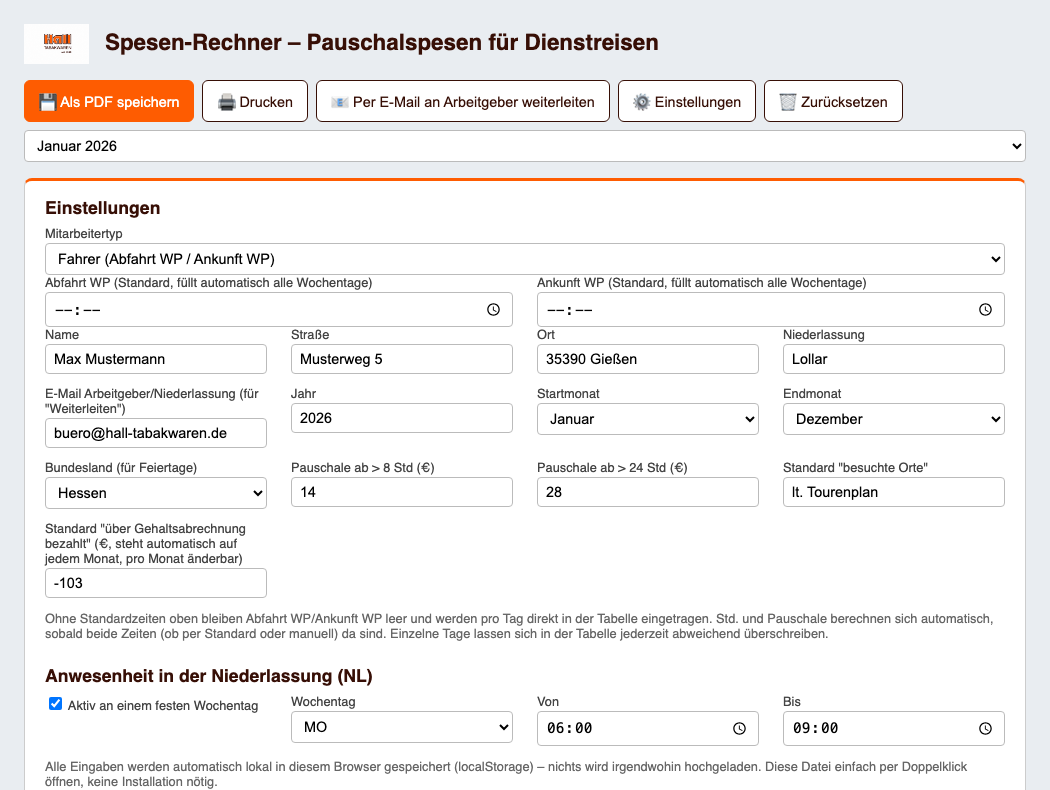
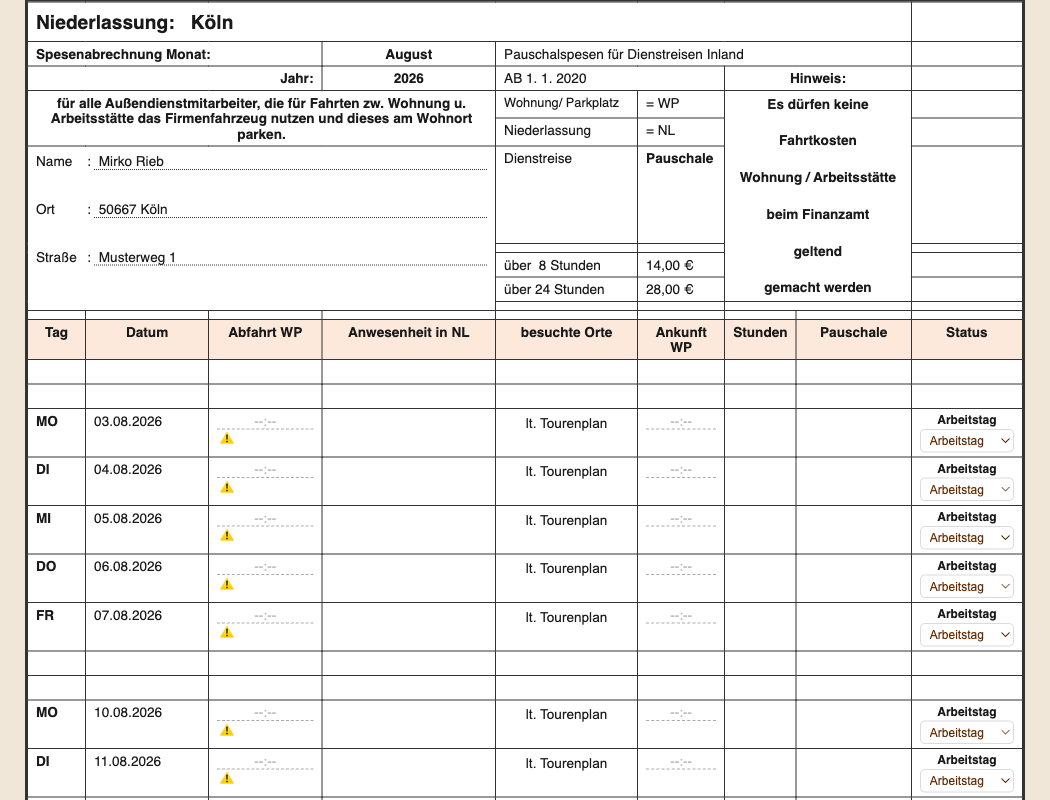
Anleitung.html auf den Werkzeugleiste-&-Hauptkategorien-Umbau aktualisiert
Abschnitt 1 wird zu "Loslegen: Kachel-Startseite & Werkzeugleiste" (7 Kacheln
erklärt, Zeit nur für Mirko sichtbar, Werkzeugleiste je Tab unterschiedlich,
mobiler "⋯ Mehr"-Overflow explizit von der neuen Hauptkategorie "☰ Mehr"
abgegrenzt). Abschnitt 2 wird zu "Stammdaten (einmalig ausfüllen)" ohne
Umschalt-Knopf, Tage-Tabelle direkt darunter. Alle weiteren Abschnitte auf
die neue Navigation umgestellt (Einstellungen-Verweise entfernt, Arbeitszeit/
Urlaubskalender/Abgeschlossene Monate auf Tabs bzw. den "☰ Mehr"-Bereich
umgehängt). Fünf Screenshots ersetzt/ergänzt: kachel-startseite.png,
toolbar.png, einstellungen.png, mehr-panel.png, zeit-tab.png. Alle
Panel-Ausschnitte ohne Werkzeugleisten-Chrome unverändert gelassen.

Vor dem Schreiben live per Playwright gegen den lokalen Server geprüft
(Mobile-Overflow vs. Mehr-Hauptkategorie, Als-App-einrichten-Modal,
Zeit-Sichtbarkeit), nicht geraten. Im Tool selbst (Anleitung-Tab) Korrektur
gelesen, alle 18 Bilder laden nachweislich (naturalWidth > 0).

Video (Anleitung-Video.mp4) bewusst nicht angefasst.

diff --git a/Anleitung.html b/Anleitung.html
@@ -80,9 +80,9 @@
 Alles läuft im Browser, nichts muss installiert werden.</p>
 <div class="hinweis">
   <b>Beim allerersten Öffnen</b> erscheint automatisch ein kurzer 4-Schritte-Einrichtungsassistent
-  (Name, Straße/Ort/Niederlassung, Fahrer/Monteur, Bundesland) - alles darin lässt sich später in den
-  Einstellungen jederzeit ändern. Nach dem letzten Schritt öffnen sich automatisch die Einstellungen,
-  um das Dokument gleich fertigzustellen (z.B. E-Mail-Adresse des Arbeitgebers, Pauschalen, Standard-Zeiten).
+  (Name, Straße/Ort/Niederlassung, Fahrer/Monteur, Bundesland) - alles darin lässt sich später jederzeit
+  ändern (siehe Schritt 2). Nach dem letzten Schritt geht es zurück zur <b>Kachel-Startseite</b> (siehe
+  Schritt 1) - von dort aus wird dann der gewünschte Bereich angetippt.
 </div>
 
 <div class="video-box">
@@ -95,49 +95,63 @@ Alles läuft im Browser, nichts muss installiert werden.</p>
   Erkl&auml;rung. Wer lieber liest, findet darunter jeden Schritt einzeln mit Bild.</p>
 </div>
 
-<h2>1. Werkzeugleiste</h2>
+<h2>1. Loslegen: Kachel-Startseite &amp; Werkzeugleiste</h2>
 <div class="step">
-  <p>Oben im Tool gibt es die Werkzeugleiste mit Monats- und Sprachauswahl:</p>
-  <img src="anleitung-bilder/toolbar.png" alt="Werkzeugleiste mit Buttons">
+  <p>Nach dem Öffnen (bzw. nach dem Einrichtungsassistenten) landet man immer zuerst auf der
+     <b>Kachel-Startseite</b> mit den Hauptbereichen zur Auswahl:</p>
+  <img src="anleitung-bilder/kachel-startseite.png" alt="Kachel-Startseite mit allen Hauptbereichen">
   <ul>
+    <li><b>📋 Spesen</b> – der eigentliche Spesennachweis: Stammdaten und die Tage-Tabelle (siehe Schritt 2 und 3)</li>
+    <li><b>⏱ Zeit</b> – eigene Stechuhr mit Überstunden-Konto (siehe „Extra: Arbeitszeit erfassen"). <b>Nur sichtbar,
+        wenn als Name exakt „Mirko Rieb" hinterlegt ist</b> – bei jedem anderen Namen erscheint diese Kachel nicht.</li>
+    <li><b>🌴 Urlaub</b> – Jahreskalender mit Urlaubsanspruch und Resttagen (siehe „Extra: Urlaubskalender")</li>
+    <li><b>📊 Jahresübersicht</b> – Monats- und Jahressummen auf einen Blick, inkl. Balkendiagramm (siehe Schritt 8)</li>
+    <li><b>📱 Als App einrichten</b> – Anleitung zum Einrichten als App auf dem Handy (siehe „Extra: Auf dem Handy –
+        als App einrichten"). <b>Erscheint nur im Browser</b>, nicht mehr in der bereits installierten App –
+        dort ist ja nichts mehr einzurichten.</li>
+    <li><b>☰ Mehr</b> – bündelt die selteneren Werkzeuge: Feedback, QR-Code, Monat abschließen, Abgeschlossene
+        Monate, Sprachauswahl und Zurücksetzen (siehe Schritt 9 und 11)</li>
+    <li><b>❓ Anleitung</b> – diese Seite hier, direkt im Tool eingebettet</li>
+  </ul>
+  <p>Von jeder dieser Ansichten führt oben <b>„← Zurück zur Auswahl"</b> wieder zurück zur Kachel-Startseite.</p>
+
+  <p><b>Die Werkzeugleiste ändert sich je nach Tab</b> – oben auf <b>📋 Spesen</b> sieht sie zum Beispiel so aus:</p>
+  <img src="anleitung-bilder/toolbar.png" alt="Werkzeugleiste im Spesen-Tab">
+  <ul>
+    <li><b>⏰ Zeiten für alle Tage</b> – setzt Abfahrt WP und Ankunft WP in einem Rutsch für <b>jeden Werktag</b>
+        des Monats, statt jeden Tag einzeln auszufüllen. Vor dem Übernehmen wird angezeigt, wie viele Stunden
+        und welche Pauschale sich daraus je Tag ergeben. <b>Von Hand eingetragene Tage bleiben unangetastet</b> –
+        wer einzelne Tage schon korrigiert hat, verliert diese Korrekturen nicht (siehe Schritt 3)</li>
     <li><b>💾 Als PDF speichern</b> – lädt den fertigen Spesennachweis als PDF-Datei herunter</li>
     <li><b>👁 PDF ansehen</b> – zeigt das PDF erst in einer Vorschau zum Anschauen (lädt nichts herunter); im Vorschau-Fenster kann man es bei Bedarf trotzdem <b>speichern</b> oder direkt <b>drucken</b></li>
     <li><b>🖨 Drucken</b> – öffnet dieselbe PDF-Vorschau; dort auf <b>🖨 Drucken</b> klicken, dann öffnet sich der Druckdialog. So wird immer genau die fertige 1-Seiten-Fassung gedruckt (nichts wird abgeschnitten)</li>
     <li><b>📧 Per E-Mail an Arbeitgeber weiterleiten</b> – speichert die PDF, öffnet eine vorausgefüllte E-Mail
         und markiert den Monat automatisch als eingereicht (siehe Schritt 10)</li>
-    <li><b>🔒 Monat abschließen</b> – markiert den Monat manuell als eingereicht/gesperrt und <b>speichert dabei
-        automatisch die fertige PDF als Datei ab</b> (für die eigene Steuer-/Jahresablage) - auch ohne E-Mail-Versand
-        (z.B. wer stattdessen ausdruckt und persönlich abgibt) - siehe Schritt 10</li>
-    <li><b>⏰ Zeiten für alle Tage</b> – setzt Abfahrt WP und Ankunft WP in einem Rutsch für <b>jeden Werktag</b>
-        des Monats, statt jeden Tag einzeln auszufüllen. Vor dem Übernehmen wird angezeigt, wie viele Stunden
-        und welche Pauschale sich daraus je Tag ergeben. <b>Von Hand eingetragene Tage bleiben unangetastet</b> –
-        wer einzelne Tage schon korrigiert hat, verliert diese Korrekturen nicht (siehe Schritt 3)</li>
-    <li><b>⚙ Einstellungen</b> – Stammdaten, Mitarbeitertyp, Standardzeiten, Anwesenheit NL, Abwesenheiten, Datensicherung (siehe Schritt 2, 5, 6 und 9)</li>
-    <li><b>📊 Jahresübersicht</b> – Monats- und Jahressummen auf einen Blick, inkl. Balkendiagramm (siehe Schritt 8)</li>
-    <li><b>⏱ Arbeitszeit</b> – eigene Stechuhr mit Überstunden-Konto, völlig getrennt von der Abrechnung
-        (siehe „Extra: Arbeitszeit erfassen")</li>
-    <li><b>🌴 Urlaubskalender</b> – Jahreskalender mit Urlaubsanspruch und Resttagen
-        (siehe „Extra: Urlaubskalender")</li>
-    <li><b>📁 Abgeschlossene Monate</b> – Übersicht aller eingereichten Monate über alle Jahre hinweg, inkl. Backup-Funktion (siehe Schritt 11)</li>
-    <li><b>📱 QR-Code</b> – zeigt einen QR-Code zur Tool-Adresse an, z.B. praktisch zum Aushängen am Schwarzen Brett</li>
-    <li><b>🗑 Zurücksetzen</b> – löscht alle Eingaben (Vorsicht, nicht rückgängig zu machen – vorher ggf. Backup speichern, Schritt 9)</li>
-    <li><b>❓ Anleitung</b> – diese Seite hier</li>
-    <li><b>💬 Feedback</b> – öffnet eine vorausgefüllte E-Mail für Verbesserungsvorschläge</li>
-    <li><b>Monats-Dropdown</b> – wechselt zwischen den Monaten des eingestellten Zeitraums</li>
-    <li><b>🇩🇪/🇬🇧 Sprachauswahl</b> – schaltet die Oberfläche zwischen Deutsch und Englisch um</li>
+    <li><b>📄 CSV (für Steuer)</b> – exportiert den Monat zusätzlich als CSV-Datei, praktisch für die eigene Steuerablage</li>
   </ul>
 
-  <div class="hinweis"><b>Auf dem Handy ist die Leiste kürzer.</b> Dort stehen nur „Als PDF speichern",
-    „Zeiten für alle Tage", „Einstellungen", „Arbeitszeit" und „Urlaubskalender" – alles andere aus dieser
-    Liste steckt hinter dem Knopf <b>„⋯ Mehr"</b>. Es fehlt also nichts, es ist nur eingeklappt, damit das
-    Spesenblatt nicht erst nach langem Scrollen erscheint. Am Rechner bleibt alles direkt sichtbar.
-    <br><br>In der <b>installierten App</b> fehlt zusätzlich „📱 Als App einrichten" – die App ist ja
-    bereits eingerichtet.</div>
+  <p>Auf <b>⏱ Zeit</b> zeigt die Werkzeugleiste stattdessen nur einen einzigen Knopf – <b>Start/Stopp</b> der
+     Stechuhr, synchron mit dem Knopf weiter unten im Tab:</p>
+  <img src="anleitung-bilder/zeit-tab.png" alt="Werkzeugleiste im Zeit-Tab mit Start/Stopp-Knopf">
+
+  <p>Auf allen anderen Tabs (<b>Urlaub, Jahresübersicht, Anleitung, Als App einrichten, Mehr</b>) gibt es
+     <b>keine Werkzeugleiste</b> – dort braucht es keine zusätzlichen Knöpfe.</p>
+
+  <div class="hinweis"><b>Auf dem Handy ist die Werkzeugleiste kürzer.</b> Im Spesen-Tab bleiben dort nur
+    „⏰ Zeiten für alle Tage" und „💾 Als PDF speichern" direkt sichtbar – „👁 PDF ansehen", „🖨 Drucken",
+    „📧 Per E-Mail weiterleiten" und „📄 CSV" stecken hinter dem kleinen Knopf <b>„⋯ Mehr"</b> am rechten Rand
+    der Werkzeugleiste. Ein Antippen klappt sie auf (der Knopf wird dann zu „⋯ Weniger"). <b>Das ist nicht
+    dasselbe wie die Hauptkategorie „☰ Mehr"</b> weiter unten in der Tab-Leiste: „⋯ Mehr" ist nur ein
+    eingeklappter Rest der Werkzeugleiste auf schmalen Bildschirmen, „☰ Mehr" ist ein eigener vollwertiger
+    Bereich mit ganz anderen Werkzeugen (Feedback, QR-Code, Monat abschließen, Abgeschlossene Monate, Sprache,
+    Zurücksetzen – siehe Schritt 9 und 11). Am Rechner bleibt die Werkzeugleiste ohnehin komplett sichtbar,
+    „⋯ Mehr" erscheint dort gar nicht erst.</div>
 </div>
 
-<h2>2. Einstellungen (einmalig ausfüllen)</h2>
+<h2>2. Stammdaten (einmalig ausfüllen)</h2>
 <div class="step">
-  <p>Auf <b>⚙ Einstellungen</b> klicken. Ganz oben zuerst den <b>Mitarbeitertyp</b> wählen:</p>
+  <p>Die Stammdaten stehen im <b>📋 Spesen</b>-Tab immer direkt oben – kein Knopf zum Anklicken mehr nötig.
+     Ganz oben zuerst den <b>Mitarbeitertyp</b> wählen:</p>
   <ul>
     <li><b>Fahrer</b> – trägt „Abfahrt WP" / „Ankunft WP" ein (Fahrten von/nach Hause); „besuchte Orte" steht standardmäßig auf „lt. Tourenplan"</li>
     <li><b>Monteur</b> – trägt stattdessen „Arbeitsbeginn" / „Arbeitsende" ein; „besuchte Orte" bleibt leer (ohne Tourenplan)</li>
@@ -146,12 +160,14 @@ Alles läuft im Browser, nichts muss installiert werden.</p>
     Am Bildschirm ist das mit „*" markiert – auf dem gedruckten/gespeicherten PDF erscheint das „*" bewusst nicht.</div>
   <p>Danach Name, Straße, Ort, Niederlassung und – falls gewünscht – die E-Mail-Adresse des Arbeitgebers eintragen
      (nur nötig für den „Per E-Mail weiterleiten"-Button). Bundesland auswählen, damit Feiertage automatisch stimmen.</p>
-  <img src="anleitung-bilder/einstellungen.png" alt="Einstellungen ausgefüllt">
   <div class="hinweis">
-    <b>Tipp:</b> Wer jeden Tag zur gleichen Zeit anfängt/aufhört, kann das oben bei „Abfahrt WP (Standard)" /
+    <b>Tipp:</b> Wer jeden Tag zur gleichen Zeit anfängt/aufhört, kann das bei „Abfahrt WP (Standard)" /
     „Ankunft WP (Standard)" (bzw. „Arbeitsbeginn/Arbeitsende" bei Monteuren) einmal eintragen – das füllt dann
     automatisch alle Wochentage aus. Einzelne Tage lassen sich unten in der Tabelle trotzdem jederzeit ändern.
   </div>
+  <p>Direkt unter den Stammdaten – einfach herunterscrollen, kein Umschalten mehr nötig – folgt die
+     Tage-Tabelle:</p>
+  <img src="anleitung-bilder/einstellungen.png" alt="Tage-Tabelle direkt unter den Stammdaten">
   <p>Alle Eingaben werden nur lokal im eigenen Browser gespeichert – nichts wird hochgeladen.</p>
 </div>
 
@@ -164,7 +180,7 @@ Alles läuft im Browser, nichts muss installiert werden.</p>
     danach wie unten beschrieben trotzdem abweichend ändern – <b>diese Änderungen bleiben erhalten</b>, auch
     wenn die Standardzeiten später noch einmal geändert werden.</div>
 
-  <p>Zurück zur Tabelle (Einstellungen einfach nochmal anklicken zum Schließen). Für jeden Arbeitstag auf das
+  <p>Einfach zur Tabelle unter den Stammdaten herunterscrollen (siehe Schritt 2). Für jeden Arbeitstag auf das
      Uhrzeit-Feld in der Zeile <b>Abfahrt WP</b> (bzw. Arbeitsbeginn) bzw. <b>Ankunft WP</b> (bzw. Arbeitsende)
      tippen/klicken. Es öffnet sich ein Dreh-Rad zur Uhrzeit-Auswahl – wie bei einer iPhone-Uhr:</p>
   <img src="anleitung-bilder/zeitrad-beispiel.png" alt="Dreh-Rad zur Uhrzeit-Auswahl">
@@ -215,7 +231,7 @@ Alles läuft im Browser, nichts muss installiert werden.</p>
 
 <h2>5. Anwesenheit in der Niederlassung (NL)</h2>
 <div class="step">
-  <p>Unter <b>⚙ Einstellungen</b> im Abschnitt „🏢 Anwesenheit in der Niederlassung (NL)" lässt sich festlegen,
+  <p>In den Stammdaten (siehe Schritt 2), im Abschnitt „🏢 Anwesenheit in der Niederlassung (NL)", lässt sich festlegen,
      an welchem festen Wochentag automatisch eine Anwesenheitszeit in der Niederlassung eingetragen wird
      (z.B. jeden Montag zur Teambesprechung):</p>
   <img src="anleitung-bilder/nl-anwesenheit.png" alt="Anwesenheit in der Niederlassung einstellen">
@@ -234,13 +250,12 @@ Alles läuft im Browser, nichts muss installiert werden.</p>
 <div class="step">
   <p>Normalerweise erscheint auf dem Spesenblatt kein Samstag - unter jedem Freitag stehen stattdessen die zwei
      leeren Puffer-Felder (siehe Schritt 3). Wer trotzdem einen Samstag als eigene Tages-Zeile braucht,
-     aktiviert ihn <b>ausschließlich über das Einstellungs-Menü</b> - auf dem Spesenblatt selbst gibt es dafür
+     aktiviert ihn <b>ausschließlich über die Stammdaten</b> (siehe Schritt 2) - auf dem Spesenblatt selbst gibt es dafür
      bewusst keinen Knopf:</p>
   <ul>
-    <li>Auf <b>⚙ Einstellungen</b> klicken</li>
-    <li>Im Abschnitt <b>„📅 Zeitraum &amp; Feiertage"</b> das Häkchen bei
+    <li>In den Stammdaten im Abschnitt <b>„📅 Zeitraum &amp; Feiertage"</b> das Häkchen bei
         <b>„Samstag als Tages-Zeile hinzufügen"</b> setzen</li>
-    <li>Einstellungen schließen - ab sofort erscheint der Samstag automatisch <b>direkt unter dem jeweiligen
+    <li>Ab sofort erscheint der Samstag automatisch <b>direkt unter dem jeweiligen
         Freitag</b> in einem eigenen, leeren Tages-Kästchen (mit „SA"), das sich wie jeder andere Tag ausfüllen lässt</li>
   </ul>
   <div class="hinweis">Häkchen wieder entfernen = der Samstag verschwindet wieder, und unter dem Freitag stehen
@@ -251,8 +266,8 @@ Alles läuft im Browser, nichts muss installiert werden.</p>
 <h2>6. Abwesenheiten am Stück eintragen</h2>
 <div class="step">
   <p>Statt Urlaub, Krankheit o.ä. Tag für Tag einzeln umzustellen (Schritt 4), lässt sich das auch für einen
-     ganzen Zeitraum auf einmal erledigen: unter <b>⚙ Einstellungen</b> im Abschnitt „Abwesenheiten am Stück
-     eintragen" Status, Von- und Bis-Datum wählen und auf „Eintragen" klicken:</p>
+     ganzen Zeitraum auf einmal erledigen: in den Stammdaten (siehe Schritt 2), im Abschnitt „Abwesenheiten am Stück
+     eintragen", Status, Von- und Bis-Datum wählen und auf „Eintragen" klicken:</p>
   <img src="anleitung-bilder/abwesenheit-beispiel.png" alt="Abwesenheiten am Stück eintragen">
   <p>Der Zeitraum darf auch über mehrere Wochen oder Monate gehen. Einzelne Tage darin lassen sich in der Tabelle
      trotzdem noch abweichend ändern.</p>
@@ -285,7 +300,7 @@ Alles läuft im Browser, nichts muss installiert werden.</p>
 
 <h2>8. Jahresübersicht</h2>
 <div class="step">
-  <p>Über den Button <b>📊 Jahresübersicht</b> in der Werkzeugleiste lässt sich der komplette Jahresverlauf auf
+  <p>Über die Kachel/den Tab <b>📊 Jahresübersicht</b> lässt sich der komplette Jahresverlauf auf
      einen Blick einsehen: ein Balkendiagramm der Pauschale je Monat, dazu Arbeitstage und Pauschale-Summe je
      Monat sowie die Anzahl der Urlaubs-, Krankheits-, Sonderurlaubs- und Elternzeit-Tage – mit Gesamtzeile
      fürs ganze Jahr:</p>
@@ -294,9 +309,13 @@ Alles läuft im Browser, nichts muss installiert werden.</p>
 
 <h2>Extra: ⏱ Arbeitszeit erfassen (optional)</h2>
 <div class="step">
-  <p>Über den Button <b>⏱ Arbeitszeit</b> in der Werkzeugleiste öffnet sich eine eigene Stechuhr mit
-     Überstunden-Konto. Solange sie geöffnet ist, tritt das Spesenblatt in den Hintergrund – so kann man
+  <p>Über die Kachel/den Tab <b>⏱ Zeit</b> öffnet sich eine eigene Stechuhr mit
+     Überstunden-Konto, mit einem eigenen Start/Stopp-Knopf in der Werkzeugleiste. Solange sie geöffnet ist, tritt das Spesenblatt in den Hintergrund – so kann man
      beim Stempeln nicht versehentlich in der Abrechnung tippen.</p>
+
+  <div class="hinweis"><b>Nur für Mirko sichtbar:</b> Die Kachel/der Tab „⏱ Zeit" erscheint ausschließlich,
+    wenn als Name exakt „Mirko Rieb" hinterlegt ist (siehe Schritt 2) – bei jedem anderen Namen fehlt dieser
+    Bereich komplett, auch in der Kachel-Startseite.</div>
 
   <div class="hinweis"><b>Wichtig:</b> Diese Funktion ist <b>völlig getrennt</b> von der Spesen-Abrechnung.
     Gestempelte Zeiten werden <b>nicht</b> in die Spesen-Tabelle übernommen und erscheinen <b>nicht</b> im PDF.
@@ -382,7 +401,7 @@ Alles läuft im Browser, nichts muss installiert werden.</p>
 
 <h2>Extra: 🌴 Urlaubskalender (optional)</h2>
 <div class="step">
-  <p>Über den Button <b>🌴 Urlaubskalender</b> öffnet sich ein Jahreskalender mit Urlaubskonto.</p>
+  <p>Über die Kachel/den Tab <b>🌴 Urlaub</b> öffnet sich ein Jahreskalender mit Urlaubskonto.</p>
 
   <div class="hinweis"><b>Anders als die Arbeitszeit</b> arbeitet der Urlaubskalender mit
     <b>denselben Daten wie die Abrechnung</b>. Was hier eingetragen wird, steht sofort auch im
@@ -419,8 +438,10 @@ Alles läuft im Browser, nichts muss installiert werden.</p>
 
 <h2>Extra: 📱 Auf dem Handy – als App einrichten (optional)</h2>
 <div class="step">
-  <p>Der Spesen-Rechner lässt sich auf dem Handy wie eine App einrichten: eigenes Symbol auf dem
-     Startbildschirm, eigenes Fenster <b>ohne Browserleiste</b>, und er funktioniert dann auch
+  <p>Auf der Kachel-Startseite (siehe Schritt 1) gibt es dafür eine eigene Kachel/einen eigenen Tab
+     <b>📱 Als App einrichten</b> mit genau dieser Anleitung – <b>sie erscheint nur im Browser</b>, nicht mehr
+     in der bereits installierten App, da dort nichts mehr einzurichten ist. Kurz zusammengefasst: eigenes
+     Symbol auf dem Startbildschirm, eigenes Fenster <b>ohne Browserleiste</b>, und die App funktioniert dann auch
      <b>ohne Empfang</b> – im Lager, im Lkw, im Funkloch.</p>
 
   <p><b>iPhone (Safari):</b></p>
@@ -469,17 +490,15 @@ Alles läuft im Browser, nichts muss installiert werden.</p>
     Adresse ganz normal im Browser öffnet – auch auf dem Handy – sieht weiterhin den gewohnten
     Vordruck.</div>
 
-  <p><b>Die Werkzeugleiste ist auf dem Handy kürzer:</b> Sichtbar bleiben „Als PDF speichern",
-     „Zeiten für alle Tage", „Einstellungen", „Arbeitszeit" und „Urlaubskalender". Alles Weitere –
-     Drucken, E-Mail, CSV, Jahresübersicht, Monat abschließen und so fort – steht hinter dem Knopf
-     <b>„⋯ Mehr"</b>. Am Rechner ist wie bisher alles direkt sichtbar.</p>
+  <p>Zur Werkzeugleiste auf dem Handy siehe Schritt 1 – dort steht auch, warum das kleine „⋯ Mehr" am Rand
+     der Werkzeugleiste etwas anderes ist als die Hauptkategorie „☰ Mehr" in der Tab-Leiste.</p>
 </div>
 
 <h2>9. Datensicherung</h2>
 <div class="step">
   <p>Da alle Daten ausschließlich lokal im eigenen Browser gespeichert werden (siehe Datenschutz-Hinweis in
      Schritt 2), gehen sie beim Löschen des Browser-Verlaufs oder einem Gerätewechsel sonst unwiderruflich
-     verloren. Unter <b>⚙ Einstellungen</b> im Abschnitt „💾 Datensicherung":</p>
+     verloren. In den Stammdaten (siehe Schritt 2), im Abschnitt „💾 Datensicherung":</p>
   <img src="anleitung-bilder/datensicherung.png" alt="Datensicherung: Backup speichern und wiederherstellen">
   <ul>
     <li><b>Backup als Datei speichern</b> – sichert alles (Einstellungen, alle Monate, beide Unterschriften) als Datei</li>
@@ -487,14 +506,15 @@ Alles läuft im Browser, nichts muss installiert werden.</p>
         anderen Gerät oder Browser</li>
   </ul>
   <div class="hinweis"><b>Empfehlung:</b> regelmäßig ein Backup speichern, z. B. einmal im Monat – besonders
-    vor dem Klick auf „🗑 Zurücksetzen".</div>
+    vor dem Klick auf „🗑 Zurücksetzen" (zu finden im Bereich <b>☰ Mehr</b>, siehe Schritt 1 und 11).</div>
 </div>
 
 <h2>10. Monat abschließen</h2>
 <div class="step">
   <p>Sobald ein Monat fertig ausgefüllt und eingereicht ist, lässt er sich sperren - das verhindert versehentliches
-     Nachbearbeiten. Das passiert automatisch beim Klick auf <b>📧 Per E-Mail an Arbeitgeber weiterleiten</b>,
-     oder manuell über <b>🔒 Monat abschließen</b> (z.B. wer stattdessen ausdruckt und persönlich abgibt):</p>
+     Nachbearbeiten. Das passiert automatisch beim Klick auf <b>📧 Per E-Mail an Arbeitgeber weiterleiten</b>
+     im Spesen-Tab (siehe Schritt 1), oder manuell über <b>🔒 Monat abschließen</b> im Bereich <b>☰ Mehr</b>
+     (siehe Schritt 1 und 11 – z.B. wer stattdessen ausdruckt und persönlich abgibt):</p>
   <img src="anleitung-bilder/monat-gesperrt.png" alt="Banner: Monat eingereicht und gesperrt">
   <p>Ein grüner Banner zeigt Datum und Uhrzeit der Einreichung, alle Zeitfelder/Status/Orte-Eingaben in der
      Tabelle sind währenddessen gesperrt (leicht abgeblendet). Über <b>🔓 Wieder öffnen</b> im Banner lässt sich
@@ -506,8 +526,9 @@ Alles läuft im Browser, nichts muss installiert werden.</p>
 
 <h2>11. Abgeschlossene Monate</h2>
 <div class="step">
-  <p>Über <b>📁 Abgeschlossene Monate</b> in der Werkzeugleiste lässt sich jederzeit einsehen, welche Monate
+  <p>Über <b>📁 Abgeschlossene Monate</b> im Bereich <b>☰ Mehr</b> (siehe Schritt 1) lässt sich jederzeit einsehen, welche Monate
      bereits eingereicht wurden - über alle Jahre hinweg, nicht nur den aktuell eingestellten Zeitraum:</p>
+  <img src="anleitung-bilder/mehr-panel.png" alt="Bereich ☰ Mehr mit Abgeschlossene Monate, QR-Code, Feedback, Zurücksetzen">
   <img src="anleitung-bilder/abgeschlossene-monate.png" alt="Panel Abgeschlossene Monate mit Backup-Hinweis">
   <ul>
     <li>Jeder Monat zeigt die Gesamtpauschale und den genauen Einreichungs-Zeitpunkt</li>
